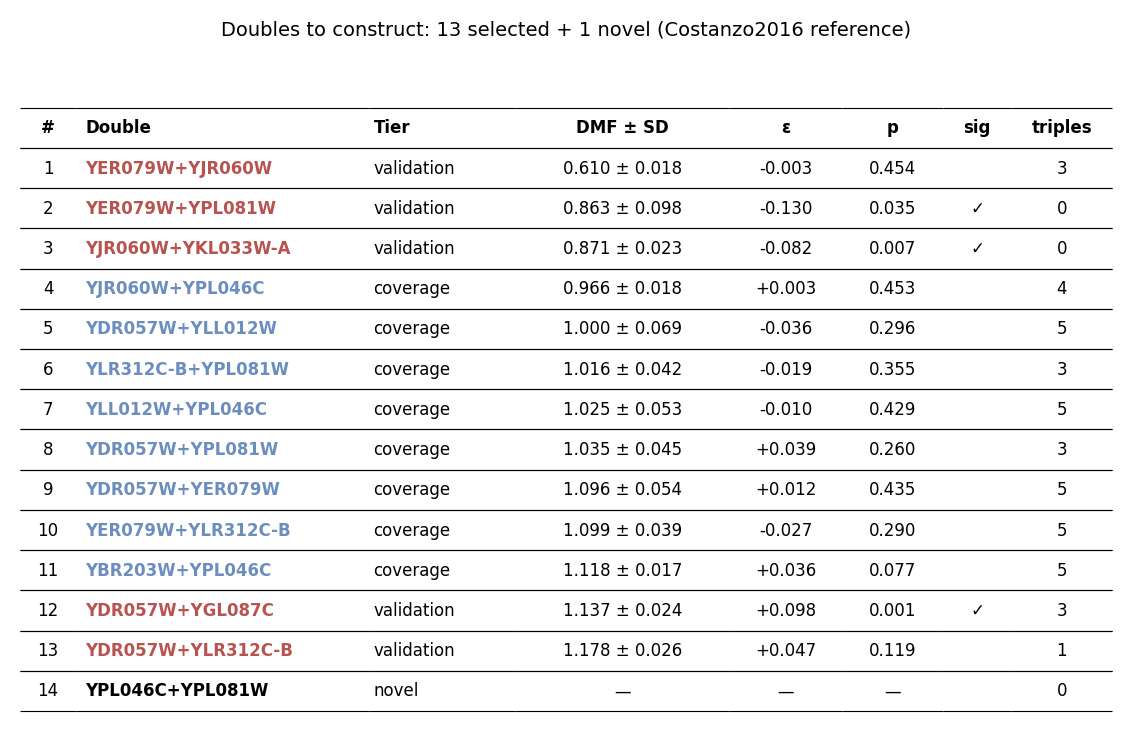
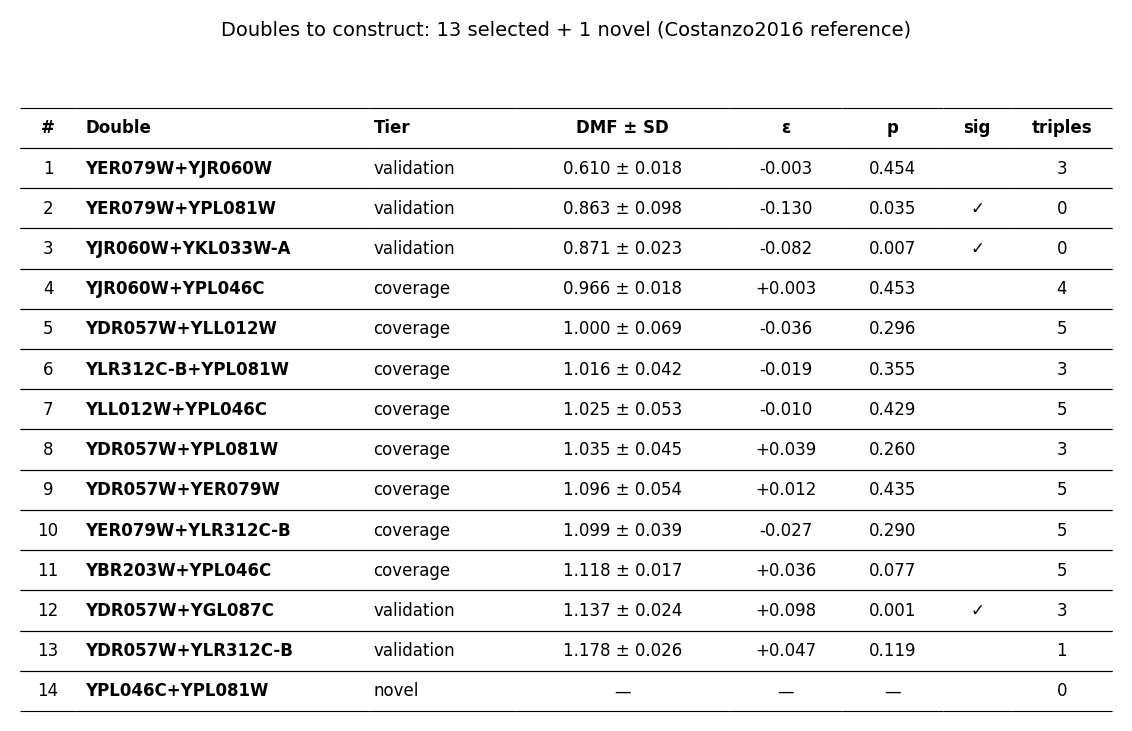
fix(010): table all-black (no tier colors) per Nature guidelines; cross-dataset legend bottom-left
- table double names now black (drop red/blue tier coloring) -> clean booktabs look,
  black text only, thin horizontal rules, Arial
- cross-dataset dumbbell legend moved lower-right -> lower-left

diff --git a/experiments/010-kuzmin-tmi/scripts/construction_validation_doubles.py b/experiments/010-kuzmin-tmi/scripts/construction_validation_doubles.py
@@ -195,10 +195,8 @@ def plot_table(df: pd.DataFrame) -> None:
             cell.set_edgecolor("black")
         else:
             r = rows.iloc[row - 1]
-            if col == 1:  # double name -> tier color
-                cell.set_text_props(color=(COLOR_COV if r.tier == "coverage"
-                                           else COLOR_VAL if r.tier == "validation"
-                                           else "black"), fontweight="bold", ha="left")
+            if col == 1:  # double name -> black (Nature: no cell coloring)
+                cell.set_text_props(color="black", fontweight="bold", ha="left")
                 cell._text.set_x(0.03)
             if col == 6 and r.significant:
                 cell.set_text_props(fontweight="bold")
@@ -244,7 +242,7 @@ def plot_cross_dataset(df: pd.DataFrame) -> None:
                                   label="Costanzo2016 (± SD)"),
                        plt.Line2D([], [], marker="o", lw=0, ms=4, color=PLOT_PALETTE[0],
                                   label="Kuzmin")],
-              frameon=True, fontsize=5.5, loc="lower right")
+              frameon=True, fontsize=5.5, loc="lower left")
     for sp in ("top", "right", "left", "bottom"):
         ax.spines[sp].set_visible(True)
         ax.spines[sp].set_linewidth(0.5)